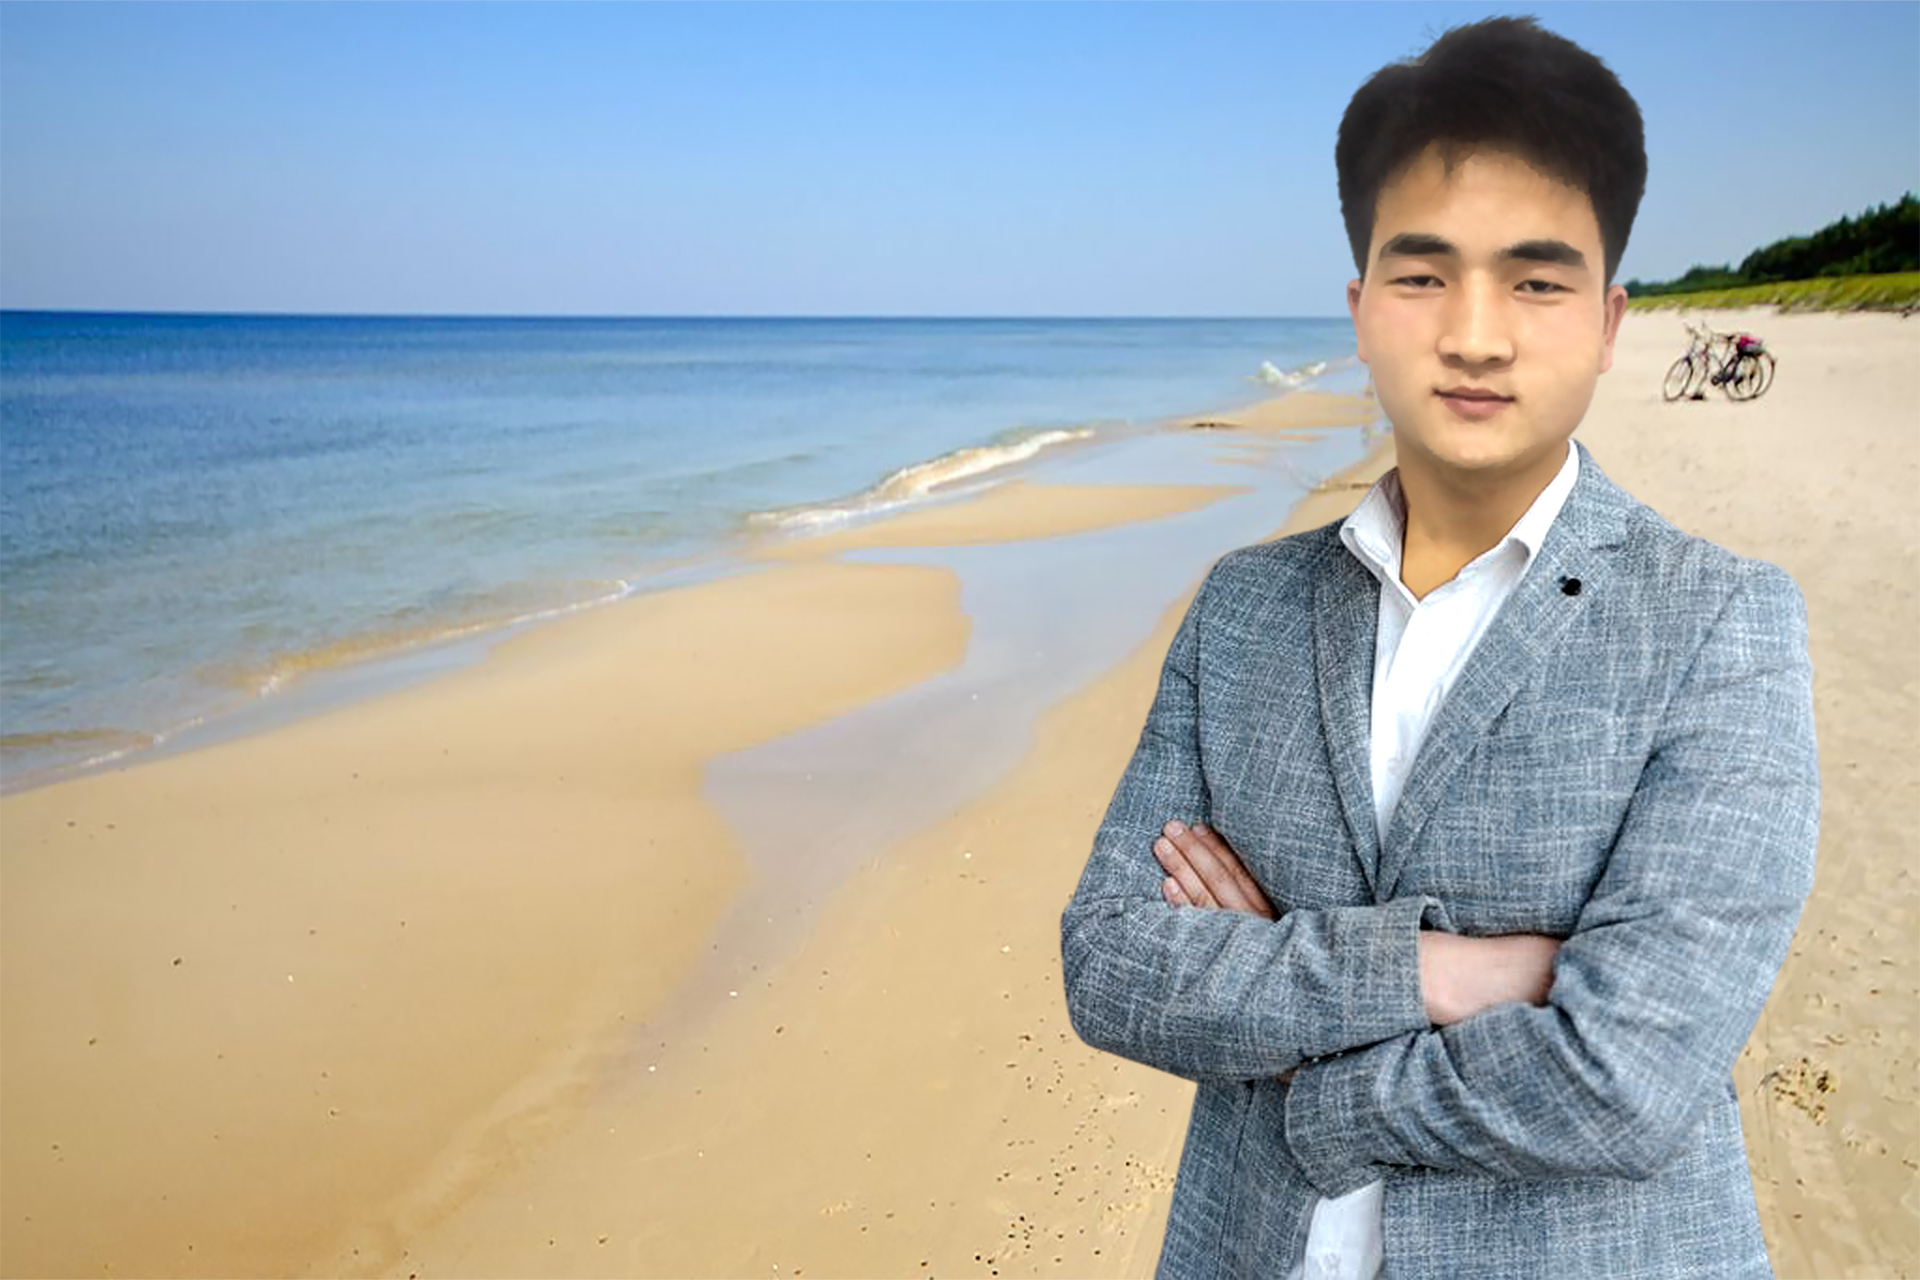
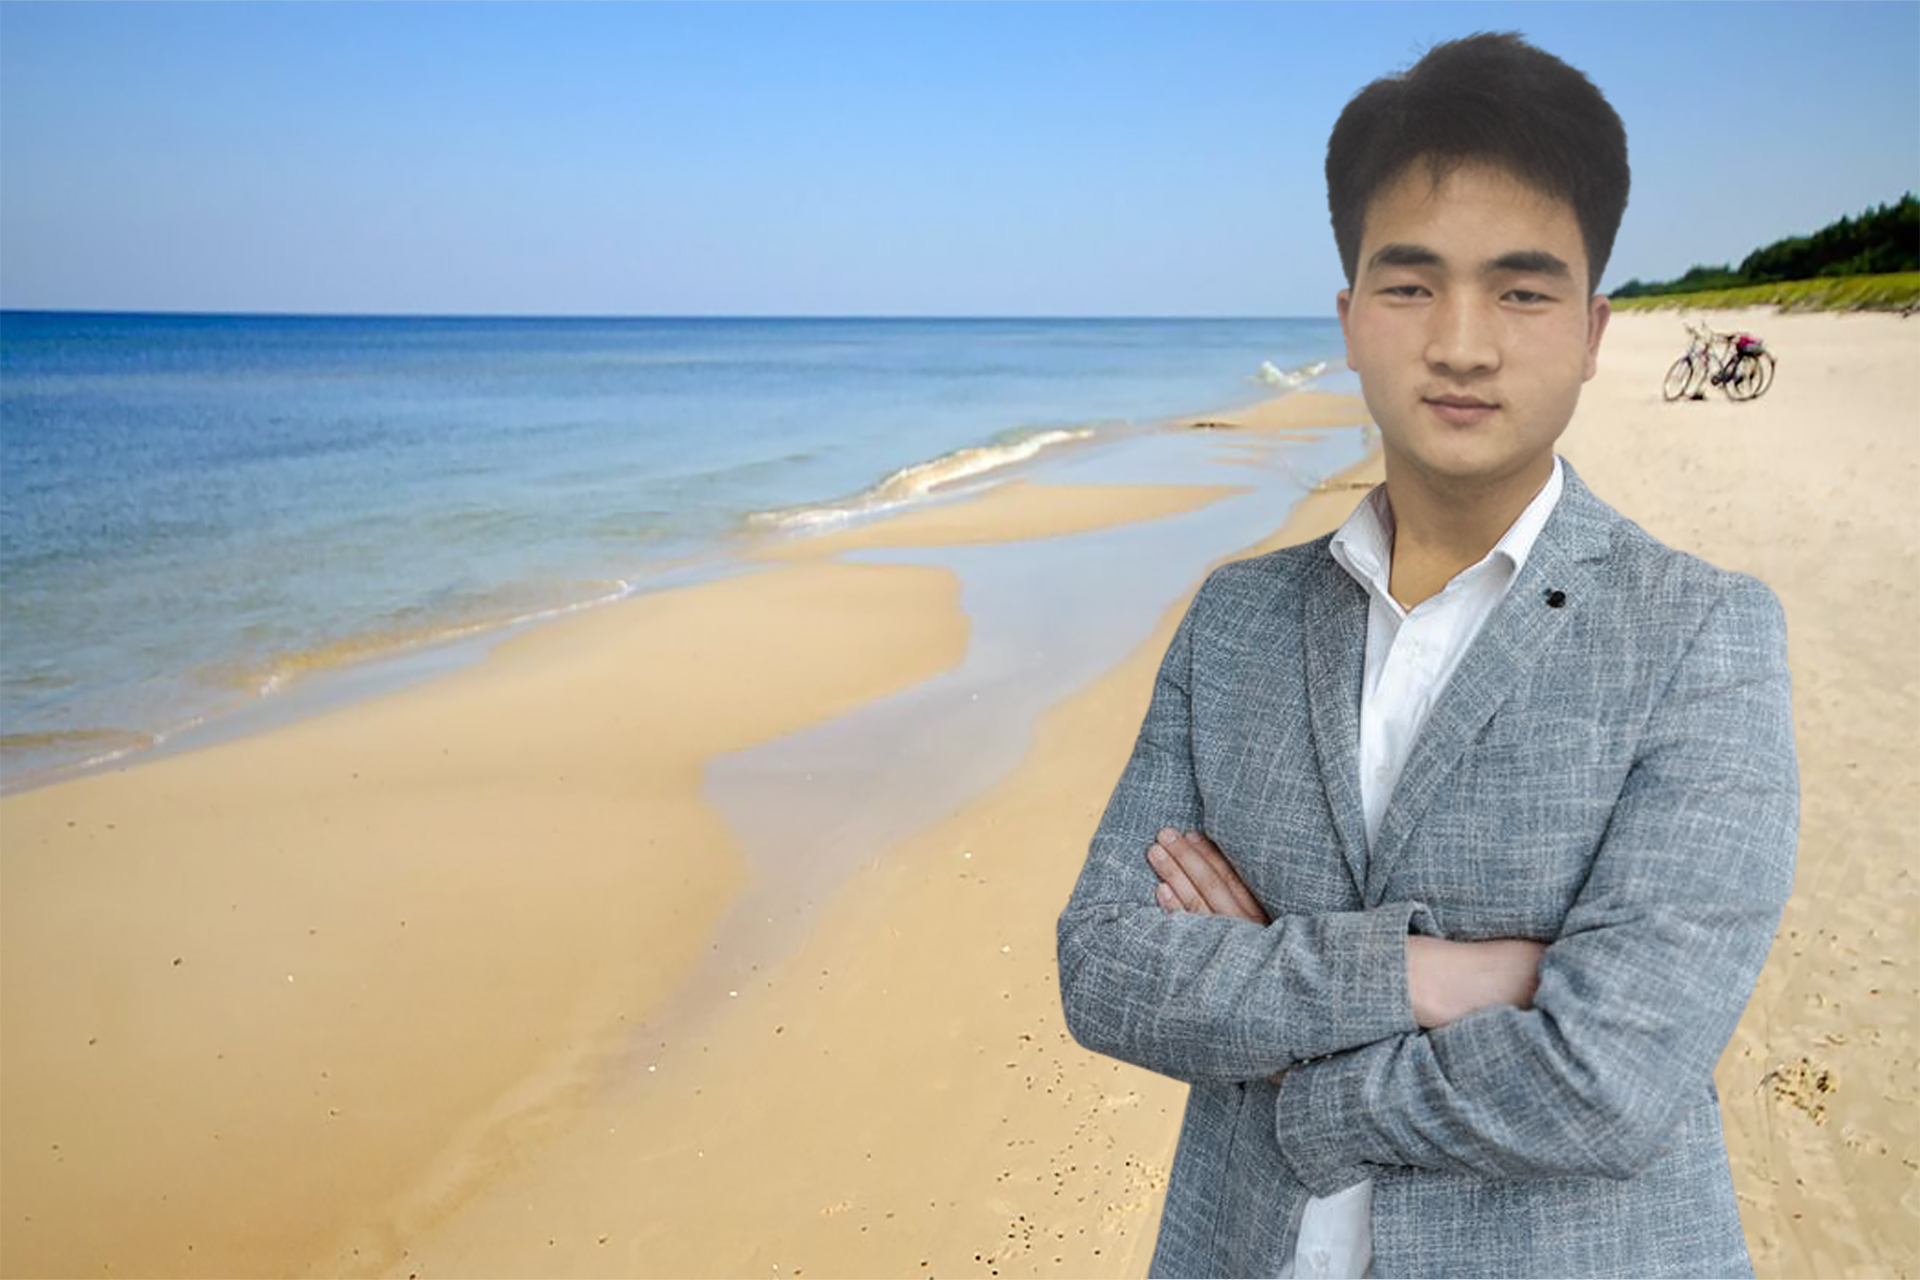
index_contact_main_image-update

Changed region(s): [[0.5312, 0.0, 0.9688, 1.0]]

diff --git a/public/index.html b/public/index.html
@@ -5,7 +5,7 @@
   <meta charset="utf-8">
   <meta content="width=device-width, initial-scale=1.0" name="viewport">
 
-  <title>Muhammed Fernando</title>
+  <title>Aron</title>
   <meta content="" name="description">
   <meta content="" name="keywords">
 
@@ -46,7 +46,7 @@
 
       <div class="profile">
         <img src="assets/img/profile-img.jpg" alt="" class="img-fluid rounded-circle">
-        <h1 class="text-light"><a href="index.html">Muhammed.F</a></h1>
+        <h1 class="text-light"><a href="index.html">Aron.A</a></h1>
         <div class="social-links mt-3 text-center">
           <!--  -->
         </div>
@@ -54,10 +54,10 @@
 
       <nav id="navbar" class="nav-menu navbar">
         <ul>
-          <li><a href="index.html" class="nav-link scrollto active"><i class="bx bx-home"></i> <span>Home1</span></a></li>
+          <li><a href="index.html" class="nav-link scrollto active"><i class="bx bx-home"></i> <span>Home</span></a></li>
           <li><a href="index.html#about" class="nav-link scrollto"><i class="bx bx-user"></i> <span>About</span></a></li>
           <li><a href="index.html#resume" class="nav-link scrollto"><i class="bx bx-file-blank"></i> <span>Resume</span></a></li>
-          <li><a href="index.html#portfolio" class="nav-link scrollto"><i class="bx bx-book-content"></i> <span>Portfolio</span></a></li>
+          <li><a href="index.html#portfolio" class="nav-link scrollto"><i class="bx bx-book-content"></i> <span>Works</span></a></li>
           <li><a href="index.html#services" class="nav-link scrollto"><i class="bx bx-server"></i> <span>Services</span></a></li>
           <li><a href="index.html#contact" class="nav-link scrollto"><i class="bx bx-envelope"></i> <span>Contact</span></a></li>
         </ul>
@@ -68,7 +68,7 @@
   <!-- ======= Hero Section ======= -->
   <section id="hero" class="d-flex flex-column justify-content-center align-items-center">
     <div class="hero-container" data-aos="fade-in">
-      <h1>Muhammed Fernando</h1>
+      <h1>Aron Adamski</h1>
       <p>I'm a <span class="typed" data-typed-items="Full Stack Developer., Designer., Freelancer."></span></p>
     </div>
   </section><!-- End Hero -->
@@ -80,7 +80,7 @@
       <div class="container">
 
         <div class="section-title">
-          <h2>About Muhammed</h2>
+          <h2>About Aron</h2>
           <p> I am a professional developer with Bachelor's Degree in Computer Science and more than 6years of Web & Mobile development experience.
 A Proficient hands-on professional with a successful record of accomplishments in the Computer Software industry. 
 Experienced developer with not only extensive object oriented programming and design skills but also with a creative way of thinking and outstanding problem solving skills.</p>
@@ -100,15 +100,15 @@ I also have a great teamwork experience with profound knowledge of SDLC, and can
               <div class="col-lg-6">
                 <ul>
                   <li><i class="bi bi-chevron-right"></i> <strong>Birthday:</strong> <span>27 April 1992</span></li>
-                  <li><i class="bi bi-chevron-right"></i> <strong>Website:</strong> <span>www.example.com</span></li>
-                  <li><i class="bi bi-chevron-right"></i> <strong>Phone:</strong> <span>+123 456 7890</span></li>
-                  <li><i class="bi bi-chevron-right"></i> <strong>City:</strong> <span>Colombo, Sri Lanka</span></li>
+                  <li><i class="bi bi-chevron-right"></i> <strong>github:</strong> <span>https://github.com/lioncoder8</span></li>
+                  <li><i class="bi bi-chevron-right"></i> <strong>Phone:</strong> <span>+48606095650</span></li>
+                  <li><i class="bi bi-chevron-right"></i> <strong>City:</strong> <span>Łódź, Poland</span></li>
                 </ul>
               </div>
               <div class="col-lg-6">
                 <ul>
                   <li><i class="bi bi-chevron-right"></i> <strong>Age:</strong> <span>31</span></li>
-                  <li><i class="bi bi-chevron-right"></i> <strong>Degree:</strong> <span>Master</span></li>
+                  <li><i class="bi bi-chevron-right"></i> <strong>Degree:</strong> <span>Bachelor</span></li>
                   <li><i class="bi bi-chevron-right"></i> <strong>Email:</strong> <span>smooth55dev@gmail.com</span></li>
                   <li><i class="bi bi-chevron-right"></i> <strong>Freelance:</strong> <span>Available</span></li>
                 </ul>
@@ -294,7 +294,7 @@ My keen sense of programming and design helps me find creative solutions to tech
           <div class="col-lg-3" data-aos="fade-up">
             <h3 class="resume-title">Sumary</h3>
             <div class="resume-item pb-0">
-              <h4>Muhammed Fernando</h4>
+              <h4>Aron Adamski</h4>
               <p><em>Innovative and deadline-driven Graphic Designer with 6+ years of experience designing and developing user-centered digital/print marketing material from initial concept to final, polished deliverable.</em></p>
               <ul>
                 <li>Stewart St, Colombo, Sri Lanka</li>
@@ -304,7 +304,7 @@ My keen sense of programming and design helps me find creative solutions to tech
 
             <h3 class="resume-title">Education</h3>
             <div class="resume-item">
-              <h4>Bachelor of Information Technology</h4>
+              <h4>Murdoch University, Dubai Campus</h4>
               <h5>2012 - 2014</h5>
               <p><em>Bachelor of Information Technology</em></p>
               <p>The Bachelor of Information Technology  you studed critical areas in IT - while gaining key skills and industry experience.</p>
@@ -426,7 +426,7 @@ My keen sense of programming and design helps me find creative solutions to tech
               <div class="testimonial-item" data-aos="fade-up">
                 <p>
                   <i class="bx bxs-quote-alt-left quote-icon-left"></i>
-                  Muhammed was great.<br/>
+                  Aron was great.<br/>
                   He performed the work welland quality.<br/>
                   It's important for him to build long term relationships with clients, so he is always try to give my best to clients and looking for long term projects.<br/>
                   He is definitely a Notion expert.
@@ -475,8 +475,8 @@ My keen sense of programming and design helps me find creative solutions to tech
               <div class="testimonial-item" data-aos="fade-up" data-aos-delay="300">
                 <p>
                   <i class="bx bxs-quote-alt-left quote-icon-left"></i>
-                  Muhammed is great employee. <br/>
-                  Muhammed is specialize in Wordpress, Squarespace and Shopify not just as CMSs but as ecommerce and selling tools.<br/>
+                  Aron is great employee. <br/>
+                  Aron is specialize in Wordpress, Squarespace and Shopify not just as CMSs but as ecommerce and selling tools.<br/>
                   I will always give him projects.<br/>
                   He was on time and was able to address changes in a timely fashion.<br/>
                   He is a great developer who has the skills.<br/>
@@ -493,7 +493,7 @@ My keen sense of programming and design helps me find creative solutions to tech
               <div class="testimonial-item" data-aos="fade-up" data-aos-delay="400">
                 <p>
                   <i class="bx bxs-quote-alt-left quote-icon-left"></i>
-                  Muhammed is highly proficient in Web Development and Graphic Designing. <br/>
+                  Aron is highly proficient in Web Development and Graphic Designing. <br/>
                   He created a Professional WordPress Website, WordPress Blogs, Website Clone, PSD to WordPress, WordPrress/Shopify E-commerce Store With all customization and payment integration.<br/>
                   He is a great developer who has the skills.<br/>
                   You 'll like working with hime.
@@ -528,7 +528,7 @@ My keen sense of programming and design helps me find creative solutions to tech
               <div class="address">
                 <i class="bi bi-geo-alt"></i>
                 <h4>Location:</h4>
-                <p>WVC3+62H, Stewart St, Colombo 00200, Sri Lanka</p>
+                <p>Bachledy Klimka 26, 34-500 Zakopane, Poland</p>
               </div>
 
               <div class="email">
@@ -540,11 +540,11 @@ My keen sense of programming and design helps me find creative solutions to tech
               <div class="phone">
                 <i class="bi bi-phone"></i>
                 <h4>Call:</h4>
-                <p>(+94) ( 011) 2431914</p>
+                <p>(+48) ( 606) 095650</p>
               </div>
 
               <!-- <iframe src="https://www.google.com/maps/embed?pb=!1m14!1m8!1m3!1d12097.433213460943!2d-74.0062269!3d40.7101282!3m2!1i1024!2i768!4f13.1!3m3!1m2!1s0x0%3A0xb89d1fe6bc499443!2sDowntown+Conference+Center!5e0!3m2!1smk!2sbg!4v1539943755621" frameborder="0" style="border:0; width: 100%; height: 290px;" allowfullscreen></iframe> -->
-              <iframe src="https://www.google.com/maps/embed?pb=!1m18!1m12!1m3!1d7921.501508464924!2d79.84847760858706!3d6.920371775371173!2m3!1f0!2f0!3f0!3m2!1i1024!2i768!4f13.1!3m3!1m2!1s0x3ae2593fc0bd6f2f%3A0xe773758d191b1df7!2sStewart%20St%2C%20Colombo%2C%20Sri%20Lanka!5e0!3m2!1sen!2shk!4v1677950432335!5m2!1sen!2shk" frameborder="0" style="border:0; width: 100%; height: 290px;" allowfullscreen></iframe>
+              <iframe src="https://www.google.com/maps/embed?pb=!1m18!1m12!1m3!1d2601.7921596794768!2d19.9346299158652!3d49.29928017751518!2m3!1f0!2f0!3f0!3m2!1i1024!2i768!4f13.1!3m3!1m2!1s0x4715f29dbd3764b3%3A0x9f88cfaded859351!2sBachledy%20Klimka%2026%2C%2034-500%20Zakopane%2C%20Poland!5e0!3m2!1sen!2shk!4v1678330608433!5m2!1sen!2shk" frameborder="0" style="border:0; width: 100%; height: 290px;" allowfullscreen></iframe>
             </div>
 
           </div>
@@ -594,9 +594,9 @@ My keen sense of programming and design helps me find creative solutions to tech
       <div class="credits">
         <!-- All the links in the footer should remain intact. -->
         <!-- You can delete the links only if you purchased the pro version. -->
-        <!-- Licensing information: https://Muhammed Fernando.com/license/ -->
-        <!-- Purchase the pro version with working PHP/AJAX contact form: https://Muhammed Fernando.com/iportfolio-bootstrap-portfolio-websites-template/ -->
-        Designed by <a href="index.html">Muhammed Fernando</a>
+        <!-- Licensing information: https://Aron Adamski.com/license/ -->
+        <!-- Purchase the pro version with working PHP/AJAX contact form: https://Aron Adamski.com/iportfolio-bootstrap-portfolio-websites-template/ -->
+        Designed by <a href="index.html">Aron Adamski</a>
       </div>
     </div>
   </footer><!-- End  Footer -->

diff --git a/public/assets/js/main.js b/public/assets/js/main.js
@@ -265,7 +265,7 @@
   ['filter-web','Website','web05.jfif','https://www.web.com/'],
   ['filter-web','Website','web06.jfif','https://www.ap-websolution.de/'],
   ['filter-web','Website','web07.jfif','https://www.web.com/'],
-  ['filter-web','Website','web08.jfif','https://mobirise.com/'],
+  // ['filter-web','Website','web08.jfif','https://mobirise.com/'],
   ['filter-web','Website','web09.jfif','https://www.freepik.com/'],
   ['filter-web','Website','web10.jfif','https://surfacecondos.com/'],
   ['filter-web','Website','web11.jfif','https://www.pinterest.com/ideas/'],

diff --git a/public/forms/contact.php b/public/forms/contact.php
@@ -1,46 +1,41 @@
 <?php
-use PHPMailer\PHPMailer\PHPMailer;
-use PHPMailer\PHPMailer\Exception;
+  /**
+  * Requires the "PHP Email Form" library
+  * The "PHP Email Form" library is available only in the pro version of the template
+  * The library should be uploaded to: vendor/php-email-form/php-email-form.php
+  * For more info and help: https://bootstrapmade.com/php-email-form/
+  */
 
-  require '../assets/vender/src/Exception.php';
-  require '../assets/vender/src/PHPMailer.php';
-  require '../assets/vender/src/SMTP.php';
+  // Replace contact@example.com with your real receiving email address
+  $receiving_email_address = 'smooth55dev@gmail.com';
 
-  // Include autoload.php file
-  // require 'vendor/autoload.php';
-  // Create object of PHPMailer class
-  $mail = new PHPMailer(true);
+  if( file_exists($php_email_form = '../assets/vendor/php-email-form/php-email-form.php' )) {
+    include( $php_email_form );
+  } else {
+    die( 'Unable to load the "PHP Email Form" Library!');
+  }
 
-  $output = '';
+  $contact = new PHP_Email_Form;
+  $contact->ajax = true;
+  
+  $contact->to = $receiving_email_address;
+  $contact->from_name = $_POST['name'];
+  $contact->from_email = $_POST['email'];
+  $contact->subject = $_POST['subject'];
 
-    $name = $_POST['name'];
-    $email = $_POST['email'];
-    $subject = $_POST['subject'];
-    $message = $_POST['message'];
+  // Uncomment below code if you want to use SMTP to send emails. You need to enter your correct SMTP credentials
+  /*
+  $contact->smtp = array(
+    'host' => 'example.com',
+    'username' => 'example',
+    'password' => 'pass',
+    'port' => '587'
+  );
+  */
 
-    try {
-      $mail->isSMTP();
-      $mail->Host = 'smtp.gmail.com';
-      $mail->SMTPAuth = true;
-      // Gmail ID which you want to use as SMTP server
-      $mail->Username = 'smooth55dev@gmail.com';
-      // Gmail Password
-      $mail->Password = 'Qwe&*(789)';
-      $mail->SMTPSecure = PHPMailer::ENCRYPTION_STARTTLS;
-      $mail->Port = 2525;
+  $contact->add_message( $_POST['name'], 'From');
+  $contact->add_message( $_POST['email'], 'Email');
+  $contact->add_message( $_POST['message'], 'Message', 10);
 
-      // Email ID from which you want to send the email
-      $mail->setFrom($email);
-      // Recipient Email ID where you want to receive emails
-      $mail->addAddress('smooth55dev@gmail.com');
-
-      $mail->isHTML(true);
-      $mail->Subject = $subject;
-      $mail->Body = $message;
-
-      $mail->send();
-    } catch (Exception $e) {
-      print($e->getMessage());
-    }
-
+  echo $contact->send();
 ?>
